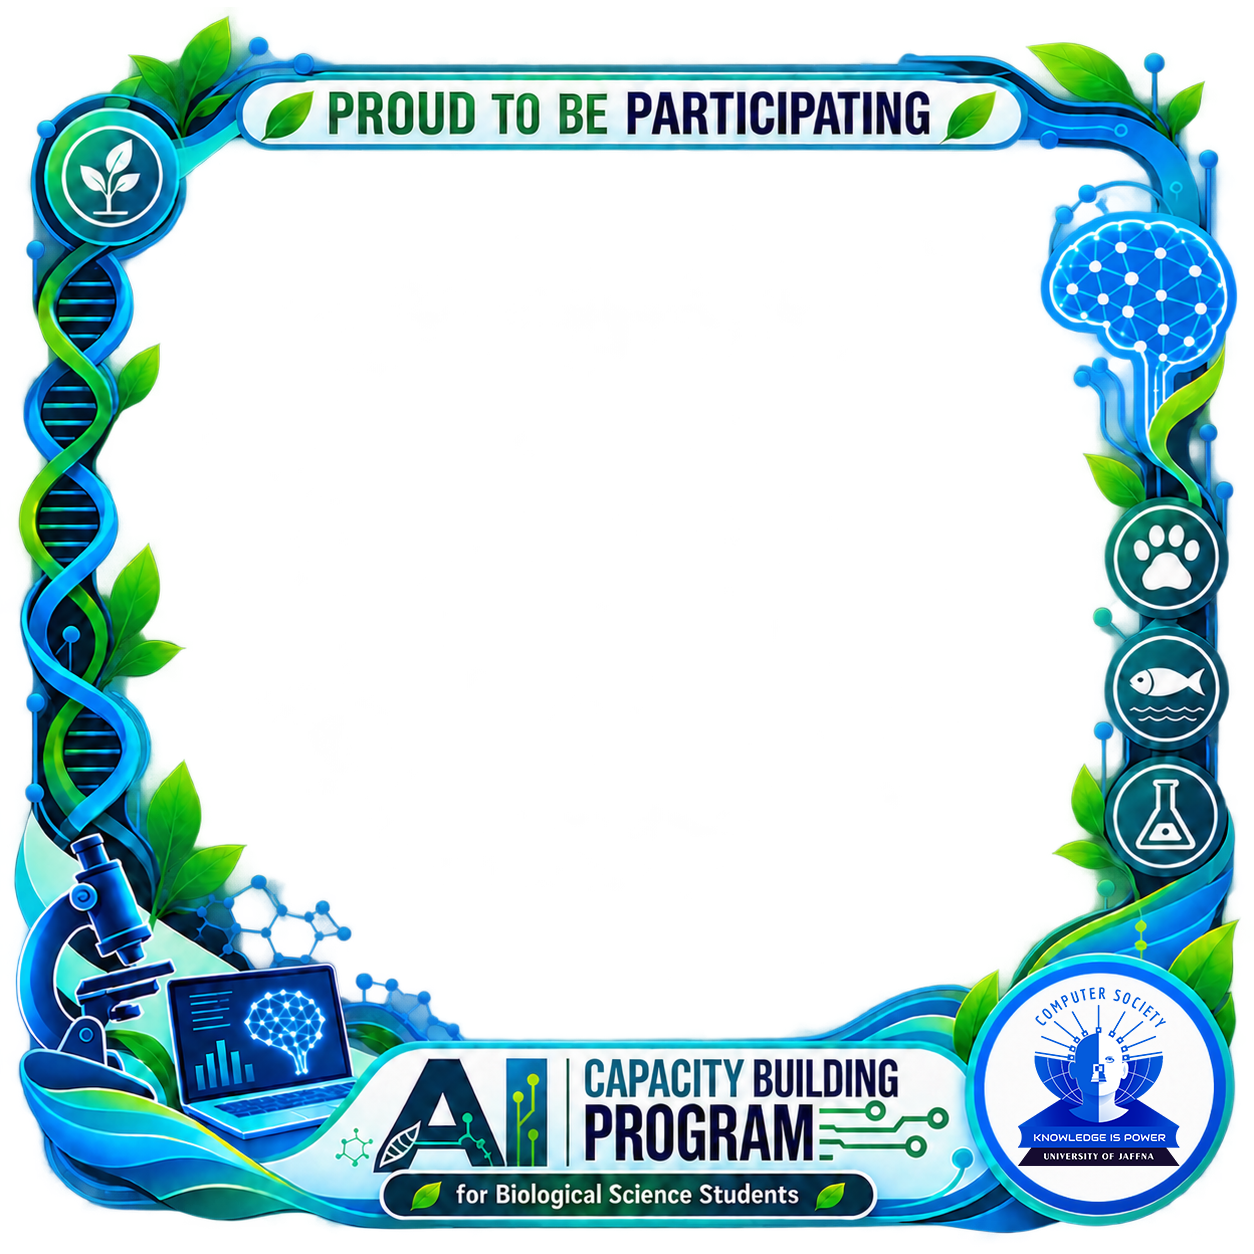
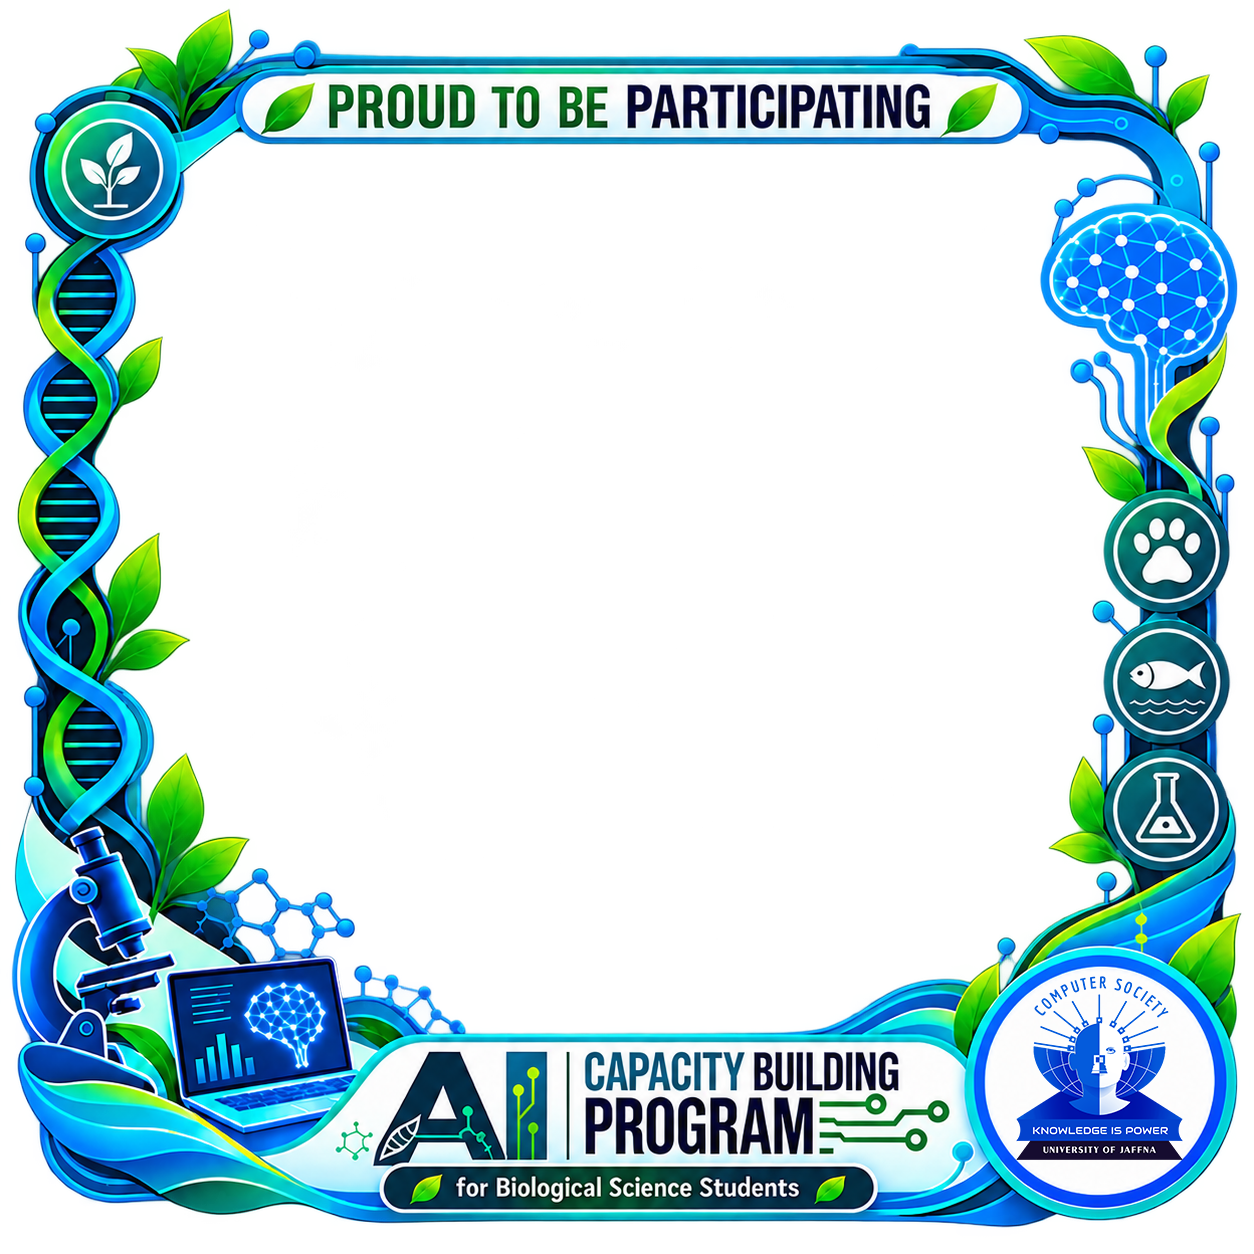
Update Frame And Adjust Image Ration

Changed region(s): [[0.0, 0.0, 0.9952, 0.9952]]

diff --git a/app/page.tsx b/app/page.tsx
@@ -6,9 +6,8 @@ const CANVAS_SIZE = 1080;
 const FRAME_SRC = "/frame.png";
 const EVENT_NAME = "AI Capacity Building";
 const CAPTION = "I'm at AI Capacity Building with CompSoc26 today! #CompSoc26";
-// The supplied frame leaves this central opening transparent; draw the photo
-// underneath the artwork across the whole opening so no blank strips remain.
-const PHOTO_AREA = { x: 48, y: 92, width: 984, height: 860 };
+// Keep the photo inside the opening, including its rounded corners.
+const PHOTO_AREA = { x: 48, y: 92, width: 984, height: 860, radius: 58 };
 
 type Pan = { x: number; y: number };
 
@@ -19,6 +18,11 @@ function clampPan(pan: Pan, drawW: number, drawH: number): Pan {
     x: Math.min(PHOTO_AREA.x, Math.max(minX, pan.x)),
     y: Math.min(PHOTO_AREA.y, Math.max(minY, pan.y)),
   };
+}
+
+function getPositionPercent(value: number, minimum: number, maximum: number) {
+  if (maximum === minimum) return 50;
+  return ((value - minimum) / (maximum - minimum)) * 100;
 }
 
 export default function Page() {
@@ -83,7 +87,13 @@ export default function Page() {
       const drawH = img.naturalHeight * scale;
       ctx.save();
       ctx.beginPath();
-      ctx.rect(PHOTO_AREA.x, PHOTO_AREA.y, PHOTO_AREA.width, PHOTO_AREA.height);
+      ctx.roundRect(
+        PHOTO_AREA.x,
+        PHOTO_AREA.y,
+        PHOTO_AREA.width,
+        PHOTO_AREA.height,
+        PHOTO_AREA.radius,
+      );
       ctx.clip();
       ctx.drawImage(img, pan.x, pan.y, drawW, drawH);
       ctx.restore();
@@ -132,6 +142,39 @@ export default function Page() {
     const drawW = img.naturalWidth * scale;
     const drawH = img.naturalHeight * scale;
     setPan((prev) => clampPan(prev, drawW, drawH));
+  };
+
+  const onPositionChange = (axis: "x" | "y", value: number) => {
+    const img = imgRef.current;
+    if (!img) return;
+    const scale = baseScale(img.naturalWidth, img.naturalHeight) * zoom;
+    const drawW = img.naturalWidth * scale;
+    const drawH = img.naturalHeight * scale;
+    const minimum =
+      axis === "x"
+        ? PHOTO_AREA.x + PHOTO_AREA.width - drawW
+        : PHOTO_AREA.y + PHOTO_AREA.height - drawH;
+    const maximum = axis === "x" ? PHOTO_AREA.x : PHOTO_AREA.y;
+    const position = minimum + (maximum - minimum) * (value / 100);
+    setPan((prev) =>
+      clampPan(
+        axis === "x" ? { x: position, y: prev.y } : { x: prev.x, y: position },
+        drawW,
+        drawH,
+      ),
+    );
+  };
+
+  const getAxisPosition = (axis: "x" | "y") => {
+    const img = imgRef.current;
+    if (!img) return 50;
+    const scale = baseScale(img.naturalWidth, img.naturalHeight) * zoom;
+    const size =
+      axis === "x" ? img.naturalWidth * scale : img.naturalHeight * scale;
+    const areaStart = axis === "x" ? PHOTO_AREA.x : PHOTO_AREA.y;
+    const areaSize = axis === "x" ? PHOTO_AREA.width : PHOTO_AREA.height;
+    const current = axis === "x" ? pan.x : pan.y;
+    return getPositionPercent(current, areaStart + areaSize - size, areaStart);
   };
 
   const onPointerDown = (e: React.PointerEvent<HTMLCanvasElement>) => {
@@ -404,6 +447,43 @@ export default function Page() {
                     onChange={(e) => onZoomChange(parseFloat(e.target.value))}
                     className="w-full accent-amber"
                   />
+                </div>
+
+                <div className="grid gap-4 sm:grid-cols-2">
+                  <label className="block">
+                    <span className="mb-2 flex items-center justify-between text-xs font-mono text-paper/50">
+                      <span>HORIZONTAL POSITION</span>
+                      <span>{Math.round(getAxisPosition("x"))}%</span>
+                    </span>
+                    <input
+                      type="range"
+                      min={0}
+                      max={100}
+                      value={getAxisPosition("x")}
+                      onChange={(e) =>
+                        onPositionChange("x", Number(e.target.value))
+                      }
+                      aria-label="Horizontal image position"
+                      className="w-full accent-teal"
+                    />
+                  </label>
+                  <label className="block">
+                    <span className="mb-2 flex items-center justify-between text-xs font-mono text-paper/50">
+                      <span>VERTICAL POSITION</span>
+                      <span>{Math.round(getAxisPosition("y"))}%</span>
+                    </span>
+                    <input
+                      type="range"
+                      min={0}
+                      max={100}
+                      value={getAxisPosition("y")}
+                      onChange={(e) =>
+                        onPositionChange("y", Number(e.target.value))
+                      }
+                      aria-label="Vertical image position"
+                      className="w-full accent-teal"
+                    />
+                  </label>
                 </div>
 
                 <div className="flex flex-wrap gap-3">
